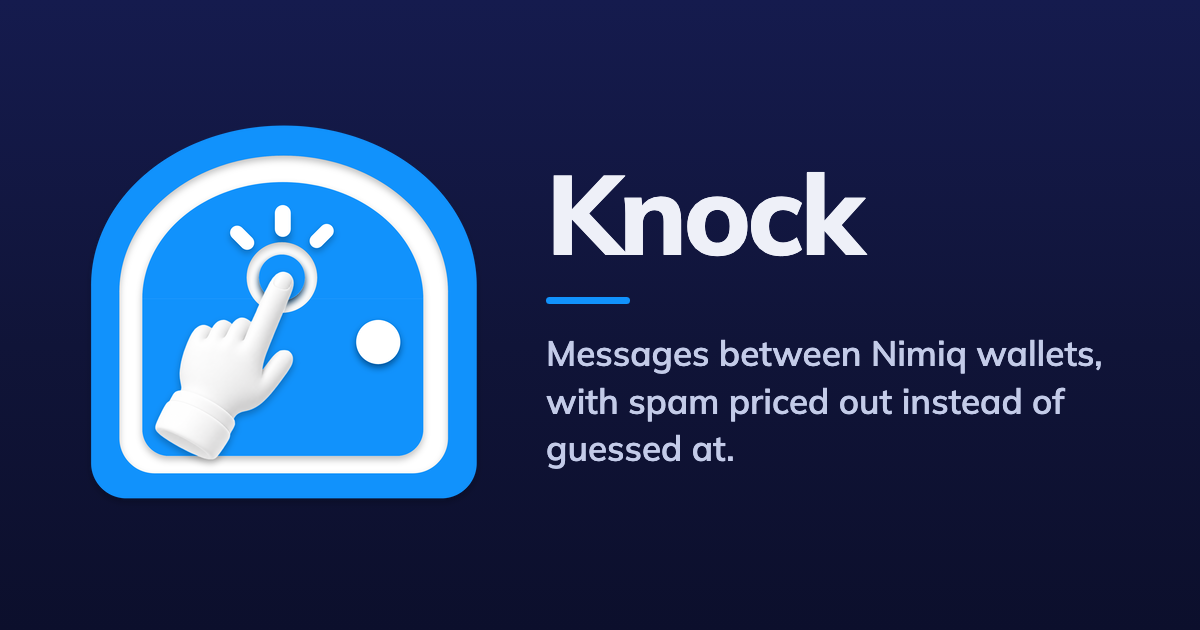
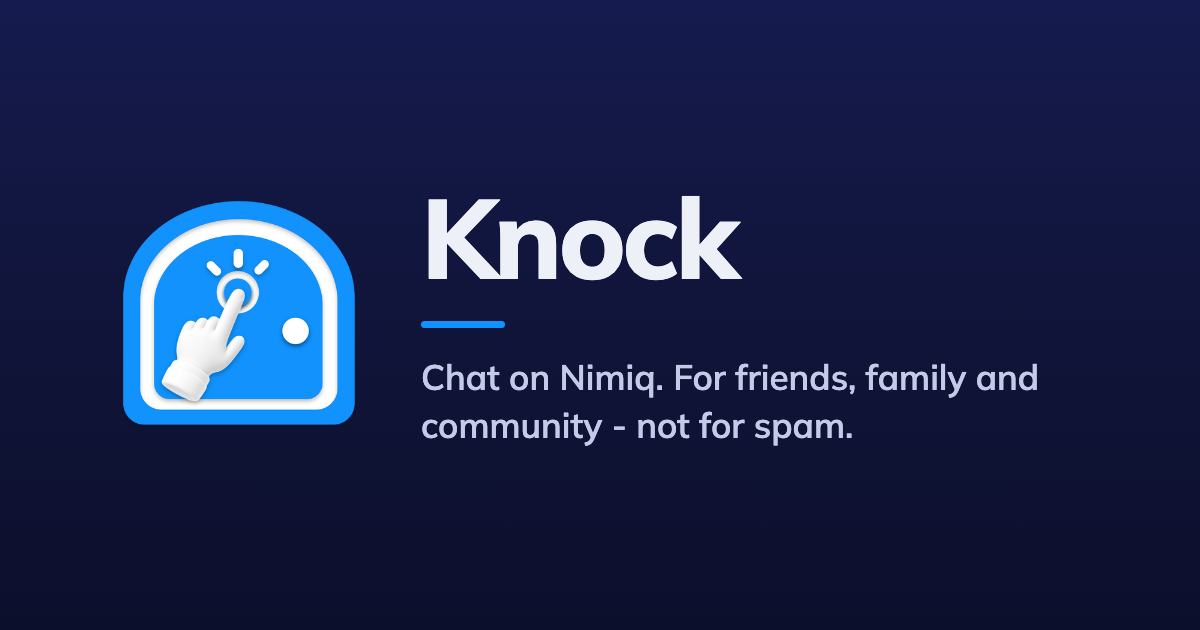
improve tagline

Changed region(s): [[0.0617, 0.181, 0.925, 0.8143]]

diff --git a/design/og.html b/design/og.html
@@ -54,20 +54,31 @@
     color: #eef0f8;
     display: flex;
     align-items: center;
+    /* Centred rather than pinned to the left padding. The mark is narrower
+       than the space beside the text, so anchoring the row to one edge leaves
+       its slack all on the other one and the whole card sits off to the left. */
+    justify-content: center;
     gap: 62px;
     padding: 0 84px;
   }
-  .mark { width: 400px; flex: none; }
+  /* Sized against the text beside it, not the canvas. At 400 the mark stood
+     318px tall next to a 268px block of text - the tallest thing on the card,
+     a saturated block of blue on a dark ground, competing with the name rather
+     than introducing it. 240 puts it at 232, comfortably inside the text's
+     height, which is what makes it read as a mark and not a column. */
+  .mark { width: 240px; flex: none; }
   .mark img { width: 100%; display: block; }
   h1 { font-size: 112px; font-weight: 800; letter-spacing: -0.035em; line-height: 1; }
   /* The logo's blue, not the app's gradient: one accent, and it belongs to the
      mark sitting next to it. */
   .rule { width: 84px; height: 7px; border-radius: 4px; background: #1192fc; margin: 28px 0 26px; }
-  p { font-size: 35px; font-weight: 600; line-height: 1.36; color: #c3cbe8; max-width: 570px; }
+  /* Wide enough for two lines rather than three: a short measure next to a
+     narrower mark left the text looking like a column of offcuts. */
+  p { font-size: 35px; font-weight: 600; line-height: 1.36; color: #c3cbe8; max-width: 660px; }
 </style>
 <div class="mark"><img src="og-mark.png"></div>
 <div>
   <h1>Knock</h1>
   <div class="rule"></div>
-  <p>Messages between Nimiq wallets, with spam priced out instead of guessed at.</p>
+  <p>Chat on Nimiq. For friends, family and community - not for spam.</p>
 </div>

diff --git a/index.html b/index.html
@@ -13,7 +13,7 @@
     <meta name="theme-color" media="(prefers-color-scheme: dark)" content="#101438" />
     <meta
       name="description"
-      content="Messages between Nimiq wallets, with spam priced out instead of guessed at."
+      content="Chat on Nimiq. For friends, family and community - not for spam."
     />
 
     <!-- The card Discord, X, Slack, WhatsApp and iMessage draw when somebody
@@ -47,7 +47,7 @@
     <meta property="og:title" content="Knock - chat on Nimiq" />
     <meta
       property="og:description"
-      content="Messages between Nimiq wallets, with spam priced out instead of guessed at."
+      content="Chat on Nimiq. For friends, family and community - not for spam."
     />
     <meta property="og:image" content="https://knockchat.org/og.png" />
     <!-- Stated so the card is laid out on the first request, before the image
@@ -57,14 +57,14 @@
     <meta property="og:image:height" content="630" />
     <meta
       property="og:image:alt"
-      content="Knock - messages between Nimiq wallets, with spam priced out instead of guessed at."
+      content="Knock: chat on Nimiq. For friends, family and community - not for spam."
     />
     <meta property="og:locale" content="en" />
     <meta name="twitter:card" content="summary_large_image" />
     <meta name="twitter:title" content="Knock - chat on Nimiq" />
     <meta
       name="twitter:description"
-      content="Messages between Nimiq wallets, with spam priced out instead of guessed at."
+      content="Chat on Nimiq. For friends, family and community - not for spam."
     />
     <meta name="twitter:image" content="https://knockchat.org/og.png" />
     <link rel="icon" href="/favicon-32.png" type="image/png" sizes="32x32" />

diff --git a/src/i18n/zh.ts b/src/i18n/zh.ts
@@ -15,7 +15,7 @@ export const zh: Dictionary = {
     groups: "群组",
   },
   welcome: {
-    tagline: "在 Nimiq 钱包之间收发消息，用付费门槛挡住垃圾信息，而不是靠猜。",
+    tagline: "在 Nimiq 上聊天。为朋友、家人和社群——不为垃圾信息。",
     points: {
       noSignup: {
         title: "无需注册",
@@ -502,7 +502,7 @@ export const zh: Dictionary = {
     floating: "悬浮",
     inHeader: "在标题栏",
     previewTitle: "链接预览",
-    about: "在 Nimiq 钱包之间收发消息，用付费门槛挡住垃圾信息，而不是靠猜。",
+    about: "在 Nimiq 上聊天。为朋友、家人和社群——不为垃圾信息。",
     terms: "服务条款",
     privacy: "隐私政策",
   },

diff --git a/src/i18n/en.ts b/src/i18n/en.ts
@@ -12,7 +12,7 @@ export const en = {
     groups: "Groups",
   },
   welcome: {
-    tagline: "Messages between Nimiq wallets, with spam priced out instead of guessed at.",
+    tagline: "Chat on Nimiq. For friends, family and community - not for spam.",
     points: {
       noSignup: {
         title: "No sign-up",
@@ -539,7 +539,7 @@ export const en = {
     floating: "Floating",
     inHeader: "In the header",
     previewTitle: "Link preview",
-    about: "Messages between Nimiq wallets, with spam priced out instead of guessed at.",
+    about: "Chat on Nimiq. For friends, family and community - not for spam.",
     terms: "Terms of Service",
     privacy: "Privacy Policy",
   },
